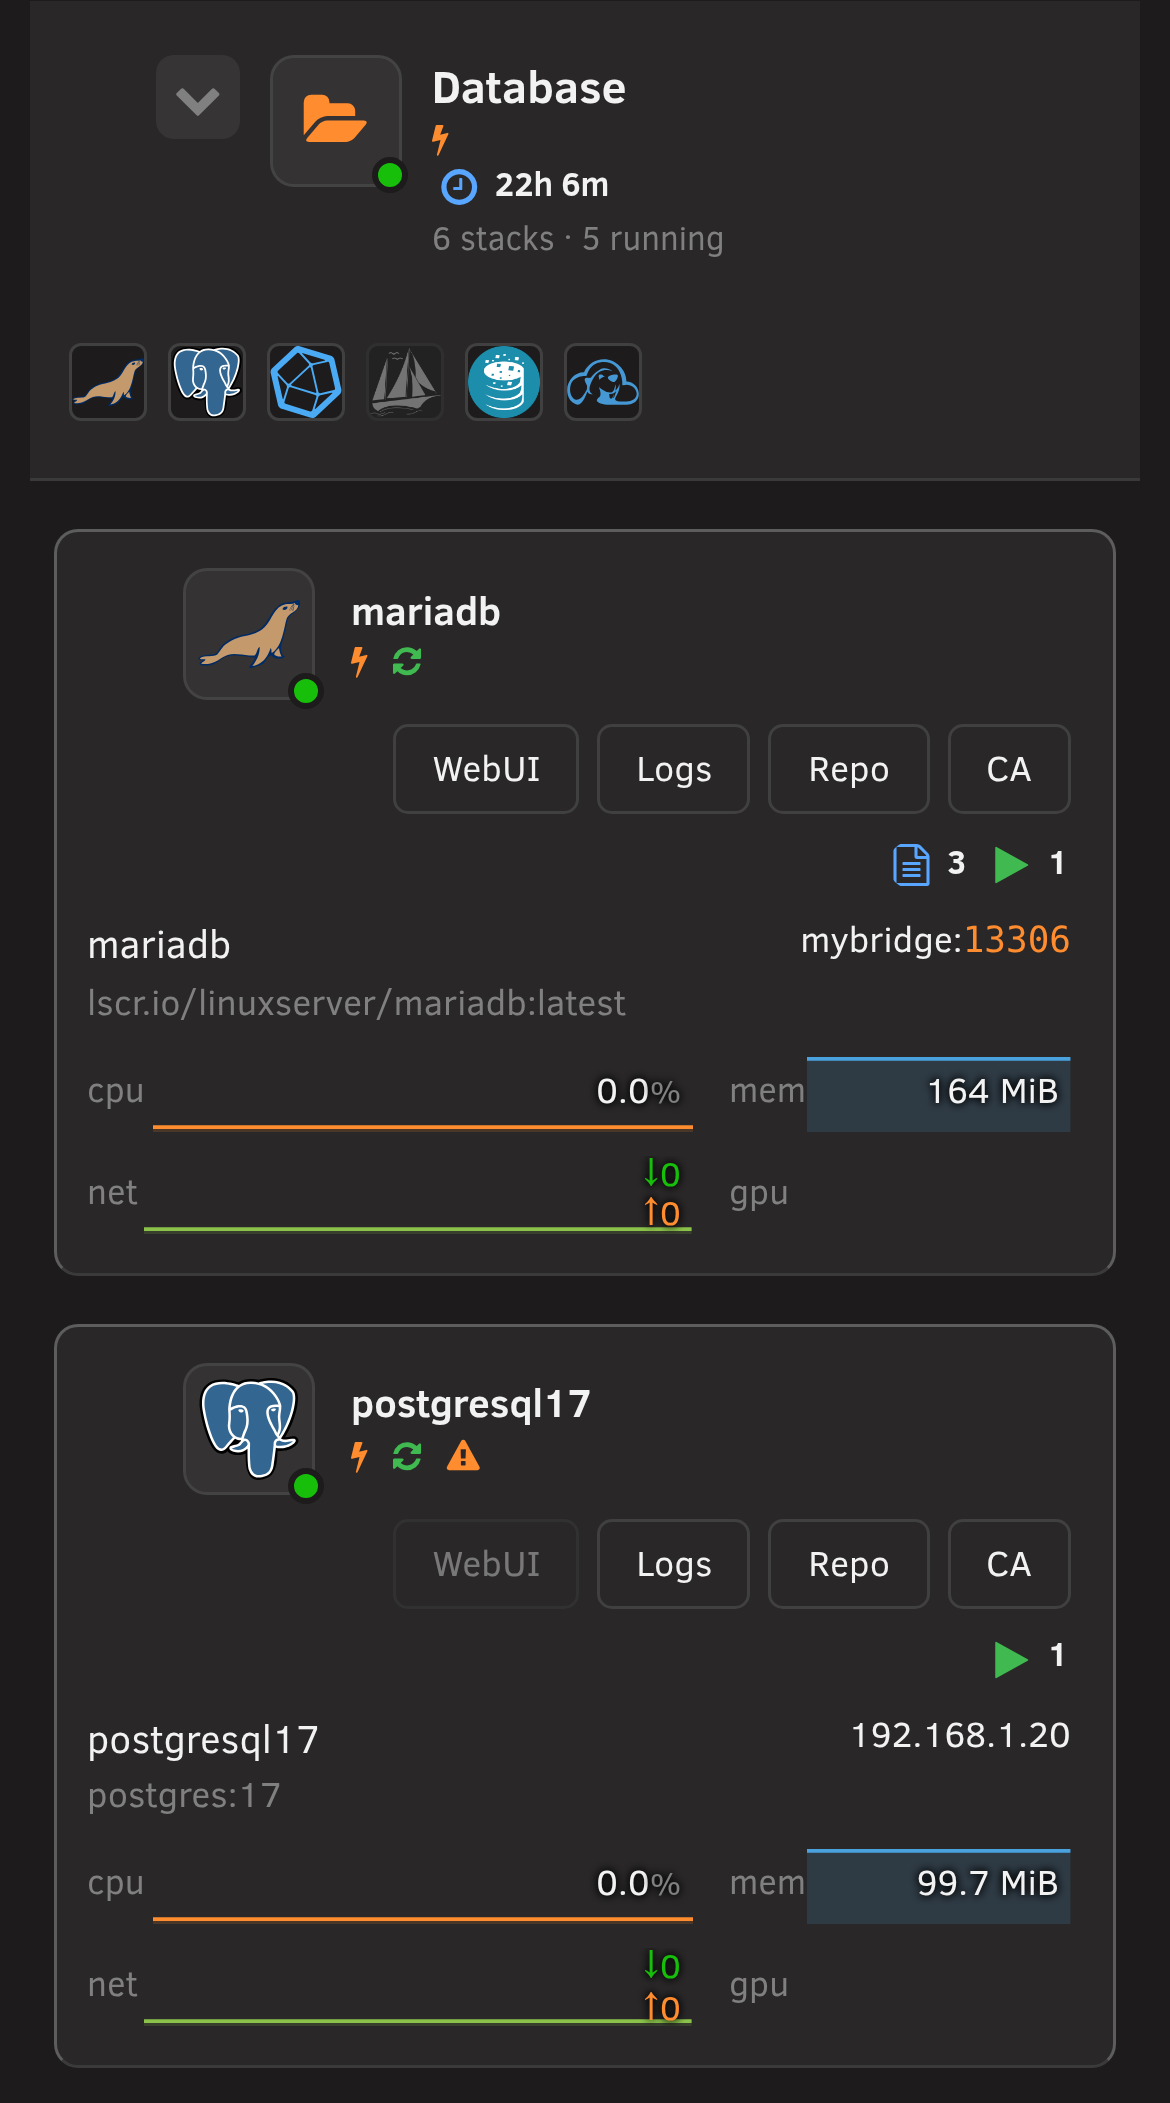
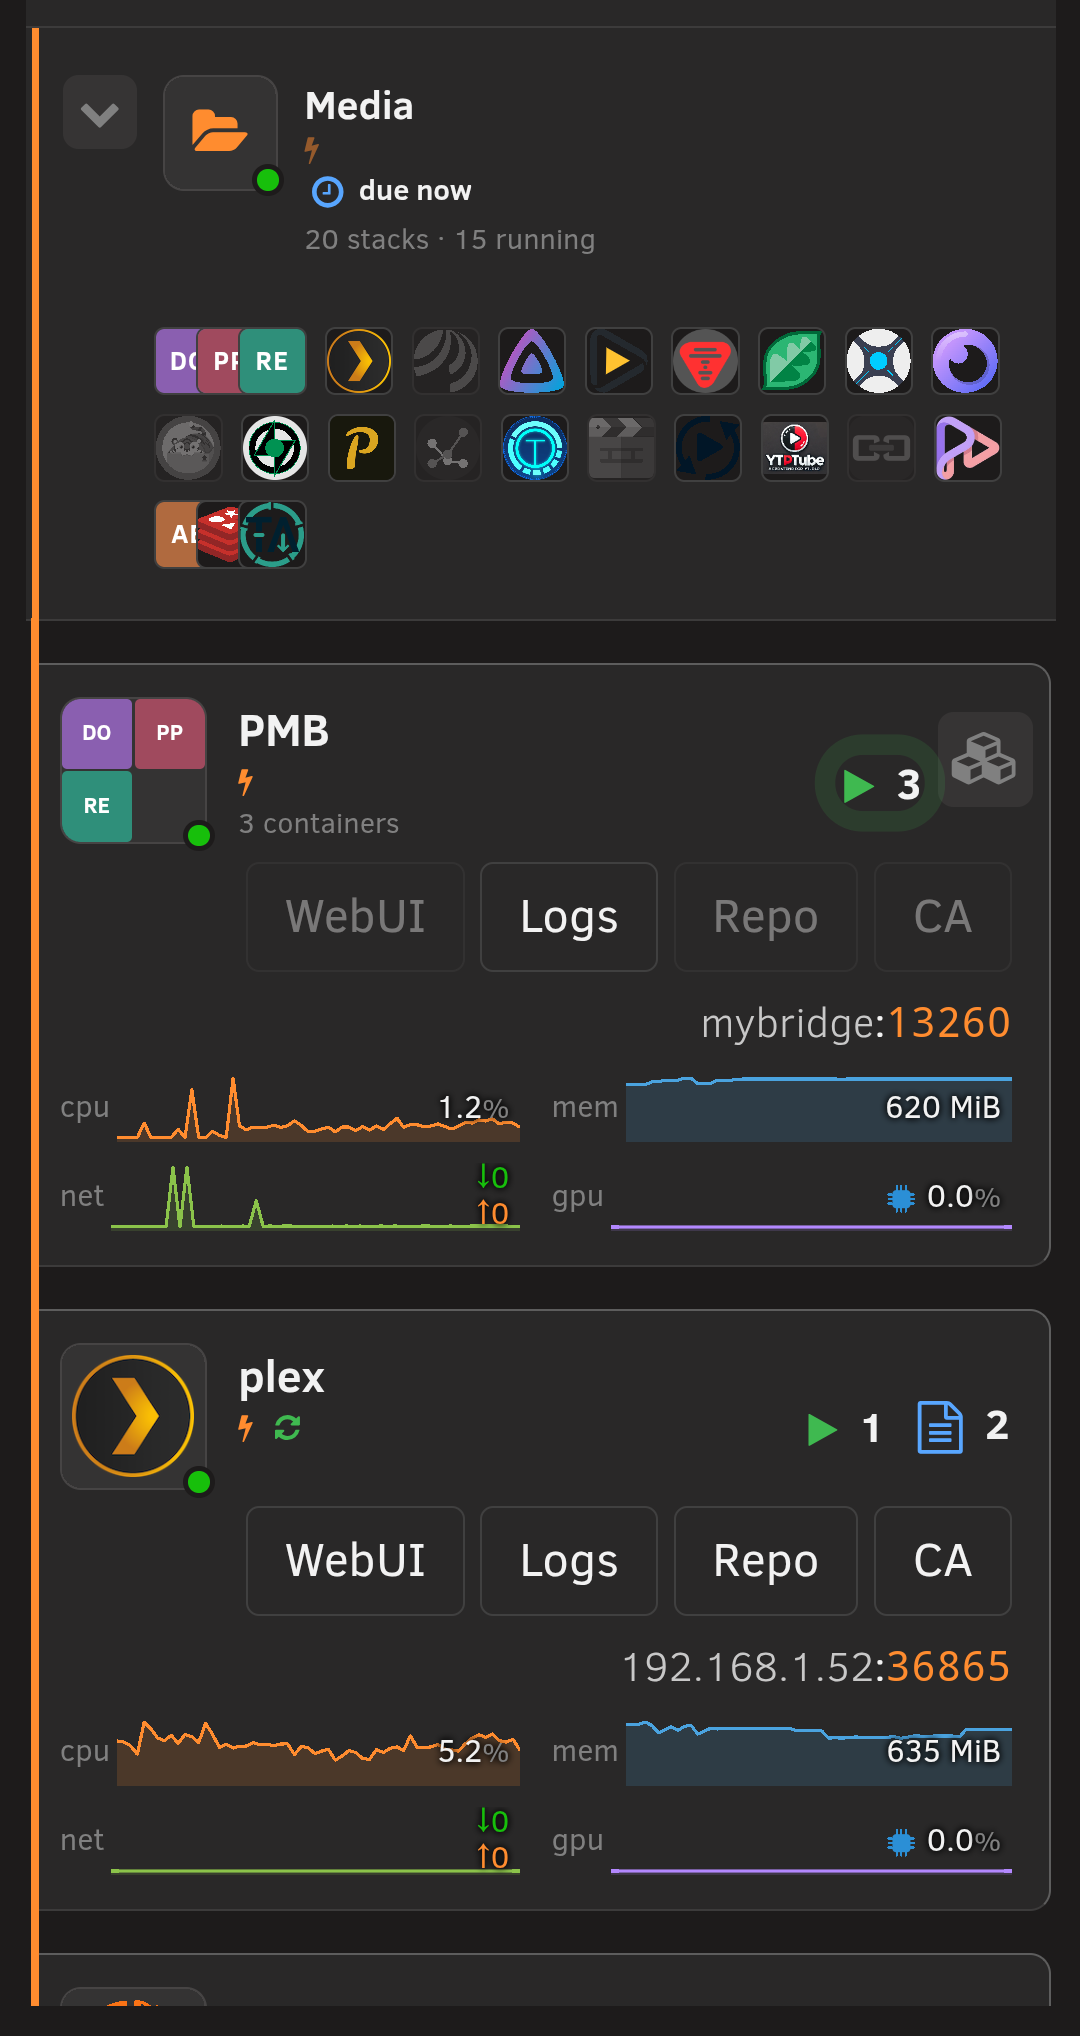
Guide: the stack list's new phone card and its chip window (PLAN_241)
Claude-Session: https://claude.ai/code/session_01Ry2wVp5QX4B8cLWsrzxL6R

diff --git a/docs/guide/the-stack-list.md b/docs/guide/the-stack-list.md
@@ -92,10 +92,19 @@ sideways or a small laptop, two on a tablet held upright, one on a phone.
 
 ![The same folder on a tablet held upright: the Database heading, then its stacks as cards two across](../images/guide/the-stack-list-cards-two.png)
 
-![The Database folder on a phone: the heading gives its name, its next-check countdown and its "6 stacks, 5 running" line the full width of the screen, with its six app icons on a line of their own beneath; then its stacks one card per row, each with the WebUI, Logs, Repo and CA buttons on a line of their own at a finger's size and the running chip on the line beneath them](../images/guide/the-stack-list-cards-phone.png)
+![The Media folder open on a phone, with an orange line down its left side, then the PMB and plex cards: each has its icon at the left and its name beside it, its chips as small icons above the WebUI, Logs, Repo and CA buttons, its web page address, and its four graphs two by two](../images/guide/the-stack-list-cards-phone.png)
 
-On a phone, a card's four small buttons take a line of their own at a size a finger can hit, with
-the state chips on the line beneath them.
+On a phone, each card shows the stack's icon on the left with its name beside it. The **WebUI**,
+**Logs**, **Repo** and **CA** buttons sit under the name, at a size a finger can hit. The card shows
+the address of the stack's web page.
+
+The chips sit just above the buttons, as icons only. Tap them to open a window that says what each
+chip means in words. Where a chip can do something, such as **Update now**, the window has a button
+for it.
+
+![The chip window for plex open over the list: the plex icon and name at the top, a line for the running chip explaining that nothing checks the app is working, with a Look for a health check button under it, a line for the author-example chip, and Close at the bottom right](../images/guide/the-stack-list-chip-window.png)
+
+When a folder is open, an orange line runs down the left side from the folder to its last stack.
 
 The folder heading changes shape here too. Its name, its update marker and its "N stacks, N running"
 line take the full width, with the icons of the apps inside it on their own line underneath rather
